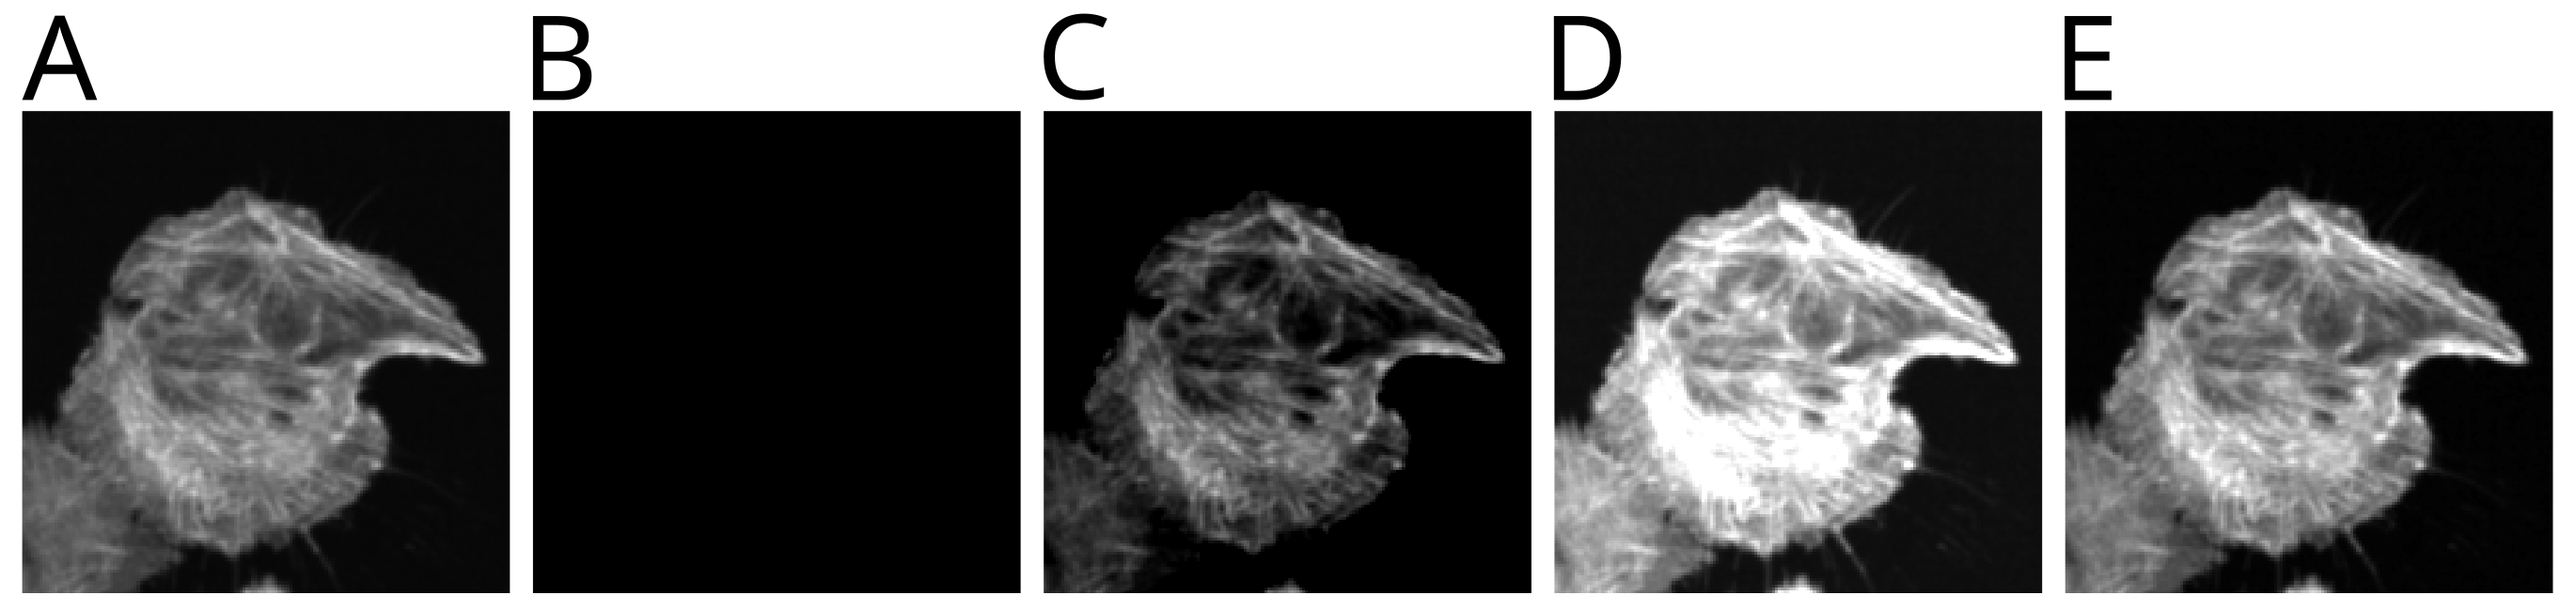
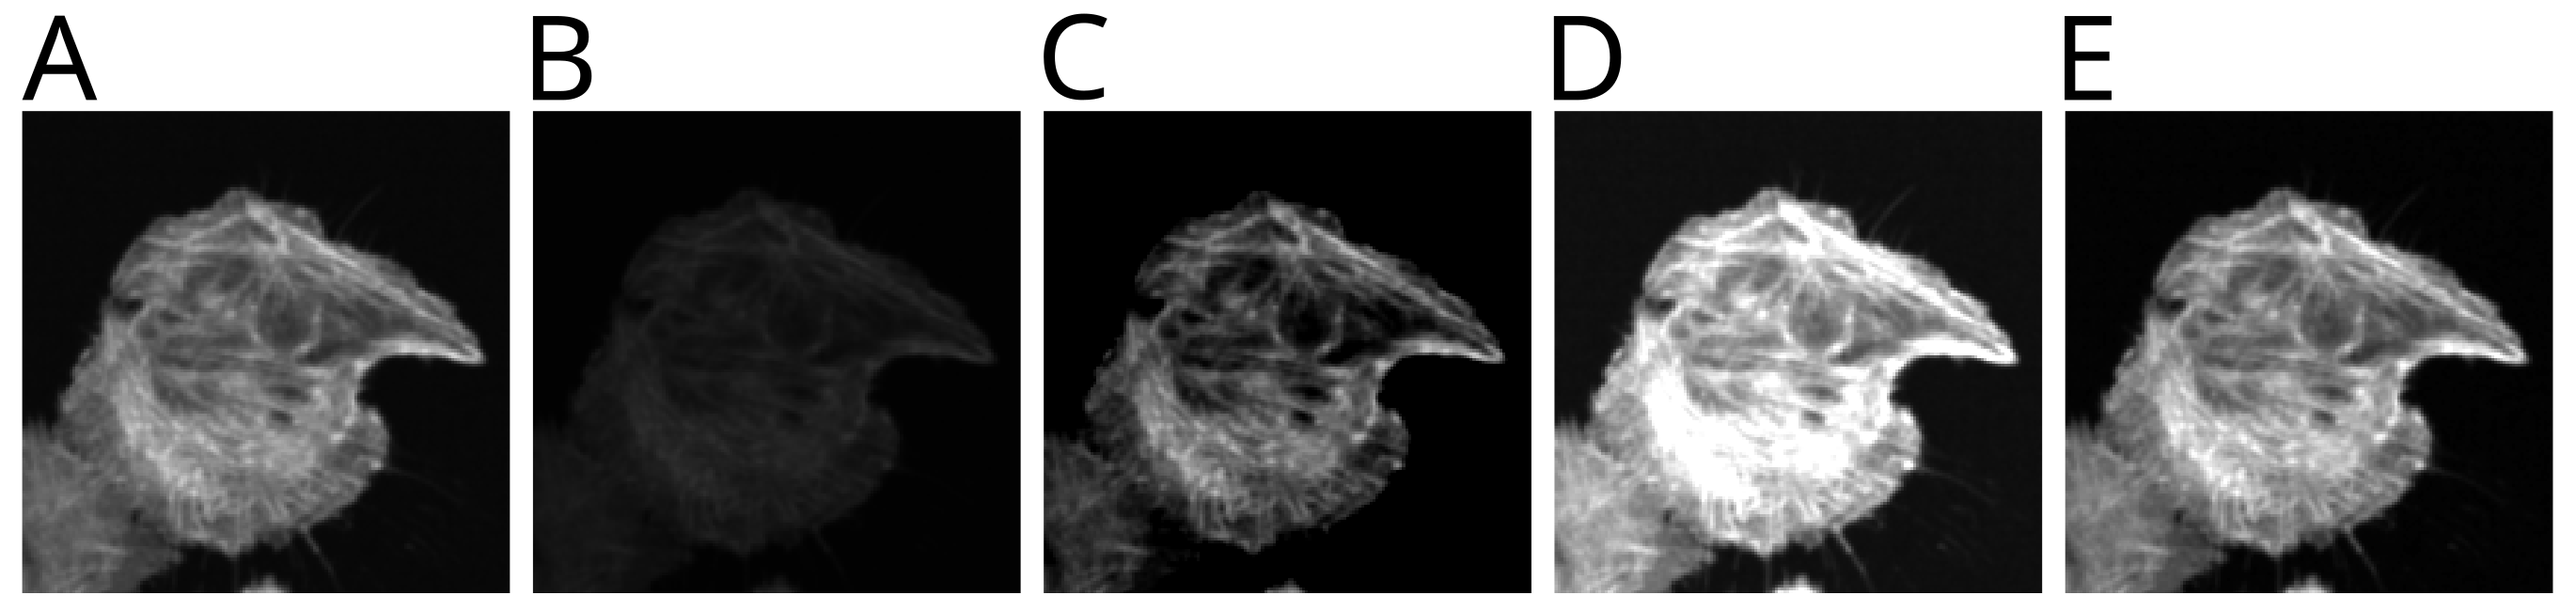
Finalized histogram tutorial with examples

Changed region(s): [[0.2172, 0.3385, 0.4033, 0.8923], [0.2792, 0.9538, 0.3102, 0.9846]]

diff --git a/checklists/fiji_course/image_histogram.md b/checklists/fiji_course/image_histogram.md
@@ -1,7 +1,13 @@
 (image_histogram)=
-# Image histogram
+# Image quality: Image histogram
 
 Topics: intensity sampling, image quality, image histogram
+
+## Learning objective
+
+The learner should be able to use image histograms to identify intensity sampling artifacts in images. 
+
+Time needed: 30 min
 
 ## Motivation
 
@@ -13,7 +19,13 @@ In this mini tutorial, we discuss how to use image histograms to check whether a
 
 - Is oversaturation or clipping present at maximum intensity?
 - Is the minimum signal properly sampled?
-- Are there any intensity sampling artefacts?
+- Are there any intensity sampling artifacts
+
+## Materials
+
+This brief tutorial is using Fiji is just ImageJ (Fiji). All images can be downloaded on the page.
+
+Fiji download: [https://fiji.sc/](https://fiji.sc/) tested with Version ImageJ 2.18.0/1.54p; Java 21.0.7 (64-bit)
 
 ## Introduction
 
@@ -34,7 +46,7 @@ Finally, the light intensity that the microscope captures is represented as diff
 :name: sampling
 :width: 100%
 
-Illustration demonstrating sampling in space and intensity. (A) Illustration of a real object, e.g., a cell, with a smooth, continuous outline (i.e., an analog signal). (B) A modern microscope samples this analog signal (yellow grid lines) and transforms (digitizes) it into a digital representation, thus discretizing the continuous analog information into pixels and gray values. (C) The sampled cell as a digital image; note the clear loss of information due to the sampling.
+Illustration demonstrating digital sampling in space and intensity. (A) Illustration of a real object, e.g., a cell, with a smooth, continuous outline and continuous intensity within (i.e., an analog signal). (B) A modern microscope samples this analog signal (yellow grid lines) and transforms (digitizes) it into a digital representation, thus discretizing the continuous analog information into pixels and gray values. (C) The sampled cell as a digital image; note the clear loss of information due to this digital sampling.
 ```
 
 ```{admonition} Think about it
@@ -44,13 +56,13 @@ The above example is extreme to illustrate a point. However, image acquisition a
 
 ```
 
-The intensity measurement can be performed incorrectly, or the images can be processed incorrectly afterward, negatively impacting analysis and image visualization. For instance:
+The intensity sampling can be performed incorrectly, or the images can be processed incorrectly afterward, negatively impacting analysis and image visualization. For instance:
 
 - The image can be oversaturated, clipping high intensities.
 - The offset can be set incorrectly, cutting off minimum intensities.
 - Image intensity can be resampled (e.g., converted to a lower bit depth), changing the intensity distribution.
 
-We can check these artefacts using the image itself but often they are not easily visible. See below:
+We can check these artifacts using the image itself but often they are not easily visible. See below:
 
 
 ```{figure} ./image_histogram_resources/sampling_errors.png
@@ -59,33 +71,178 @@ We can check these artefacts using the image itself but often they are not easil
 :name: sampling_errors
 :width: 100%
 
-Images demonstrating different intensity sampling errors. (A) The starting image, an F-actin cytoskeleton stain channel of a cell cluster. (B–E) Different intensity sampling problems introduced into the same image. 
+Images demonstrating different intensity sampling problems. (A) The starting image, an F-actin cytoskeleton stain channel of a cell cluster. (B–E) Different intensity sampling problems introduced into the same image. 
 ```
 
 ```{admonition} Exercise
 :class: tip
-Can you identify the artifact in each of B–E? You can find the solution at the end of the tutorial, or work through the exercise yourself using histograms and plot profiles.
+Can you identify the intensity sampling problems in each of B–E? You can find the solution at the end of the tutorial, or work through the exercise yourself using histograms and plot profiles.
 ```
 
-We can use tools such as Histograms and line plots to easily spot these artefacts. 
+We can use tools such as image histograms to easily spot these artifacts. 
 
-## Histogram
+## Image Histogram
+
+Download the first test image here [A_image.png](./image_histogram_resources/A_image.png).
+
+Open Fiji.
+
+```{figure} ./unit-1_resources/Fiji_task_bar.png
+:alt: In
+:align: center
+:name: Fiji task bar image histogram
+:width: 100%
+
+Fiji task bar 
+```
+
+File > Open... (or drag and drop image into Fiji task bar).
+
+You can then create the image histogram of this image here:
 
 Analyze > Histogram
 
-Shows intensity distributions
+The image histogram shows the intensity distributions over all pixels (black plots). With the x-axis plotting the gray-values and the y-axis plotting the number of pixels {numref}`histogram_good`. 
 
-### Intensity artfacts in Histograms
+```{figure} ./image_histogram_resources/histogram_good.png
+:alt: In
+:align: center
+:name: histogram_good
+:width: 75%
 
-## Line plots
+Image Histogram
+```
 
-Click on line ROI 
+There are two peaks, see {numref}`histogram_annotated`. (A) The first sharp peak has many pixels with low gray-values. These values correspond mostly to the background of the image (e.g., dark pixels). (B) The second flatter peak shows pixels with a wide distribution over different larger gray values. These correspond to the signal from the imaged object. (C) Below you will find a calibration bar that shows the minimum and maximum values displayed and their corresponding displayed gray value. 
 
-Draw line ROI on images
+Additionally the histogram window shows basic intensity statistics from this specific image such as the total number of pixels (N), mean (Mean), standard deviation (StdDev), minimum value (Min) and maximum value (Max). For more information please look into the [ImageJ documentation](https://imagej.net/ij/docs/menus/analyze.html#hist)
 
-Analyze > Plot Profile
+```{figure} ./image_histogram_resources/histogram_annotated.png
+:alt: In
+:align: center
+:name: histogram_annotated
+:width: 50%
 
-### Clipping in line plot
+Information in the histogram
+```
+
+The second peak is often not easily visible. Thus we can apply a log scale on the y-axis to better visualize the less abundant gray values. The intensity distribution using the log scale is overlaid as gray plots see {numref}`histogram_good_log`:
+
+```{figure} ./image_histogram_resources/histogram_good_log.png
+:alt: In
+:align: center
+:name: histogram_good_log
+:width: 75%
+
+Histogram with log scale
+```
+
+Now we would like to understand what constitutes a well-acquired image based on its histogram. In general, good original microscopy images (i.e., unprocessed) preserve both the low and high intensity values and show an unprocessed varying signal. We can see this clearly in {numref}`histogram_demonstrated`:
+
+(A) Low values do not start at 0; there is a clear "offset" present in the image, with low intensity varying around a low gray value.
+(B) The signal is continuous but not smooth; variation is present along the intensity distribution due to variation in the signal and noise.
+(C) The high values end before the highest possible value, rather than reaching it.
+
+```{figure} ./image_histogram_resources/histogram_good_demonstrated.png
+:alt: In
+:align: center
+:name: histogram_demonstrated
+:width: 50%
+
+Histogram with log scale
+```
+
+:::{note}
+
+Variation and noise are often seen as something bad that should be suppressed or removed before analysis. However, in the physical world, variation is normal and noise cannot be avoided when performing measurements, as the measurement itself will introduce it. Thus, the absence of variation or noise, i.e., smooth distributions, is generally an indication that some processing has occurred.
+
+:::
+
+## Intensity artifacts in Histograms
+
+Since we now understand how a regular histogram should look we can study different intensity sampling problems. Download the example images (B-E) from the example figure {numref}`sampling_errors` here: 
+
+- [B_image.png](./image_histogram_resources/B_image.png)
+- [C_image.png](./image_histogram_resources/C_image.png)
+- [D_image.png](./image_histogram_resources/D_image.png)
+- [E_image.png](./image_histogram_resources/E_image.png)
+
+```{admonition} Exercise
+:class: tip
+
+Open the images, create a histogram and then compare it to the starting image (A_image.png). Try to identify the differences between the images and the image histograms.
+
+Also think how these artifacts impact your visualization and analysis downstream.
+
+```
+
+### Low contrast
+
+[B_image.png](./image_histogram_resources/B_image.png) shows an image that appears faint or dim. Looking at its histogram, we can see that the intensity values are clustered in a narrow band, leaving much of the available range unused (red arrow). Thus, the image is not exploiting the full dynamic range of the display or detector. We say the image is low contrast. 
+
+This is not necessarily a corrupted or unusable image. Under certain conditions, a narrow intensity range can be entirely correct, for instance, when comparing different treatments that genuinely produce different signal strengths, forcing the range to match would misrepresent the biology. However, a narrow, underused histogram can also indicate suboptimal image acquisition (e.g., insufficient exposure time, laser power, or gain), and it's worth checking the acquisition settings before assuming the signal itself is simply weak.
+
+```{figure} ./image_histogram_resources/histogram_low_contrast.png
+:alt: In
+:align: center
+:name: histogram_low_contrast
+:width: 75%
+
+Low contrast
+```
+
+### Low intensity cut
+
+[C_image.png](./image_histogram_resources/C_image.png) now shows a clear intensity sampling error. Unlike the previous example, there is no offset present in the image, and the low intensities have been clipped. At the lowest possible value (0), we can see a sharp peak in the histogram (red arrow). This spike indicates that many pixels have been pushed down to the same minimum value, meaning the true low-intensity information has been lost and cannot be recovered. 
+
+This can severely impact image measurements. When measuring object size, dim edges or faint structures near the clipping point may be missed entirely, leading to underestimated object size. Signal intensity measurements are also affected, since clipped pixels no longer reflect their true value, biasing any quantification that relies on them.
+
+```{figure} ./image_histogram_resources/histogram_low_cut.png
+:alt: In
+:align: center
+:name: histogram_low_cut
+:width: 75%
+
+Low intensity values cut, no offset
+```
+
+### High intensity clipped
+
+[D_image.png](./image_histogram_resources/D_image.png) shows another clear intensity sampling error. Here, the high signals have been clipped, also referred to as oversaturation. At the highest possible value, we can see a sharp peak in the histogram (red arrow). Many pixels have been pushed up to the same maximum value, so the true high-intensity values are lost and cannot be measured accurately.
+
+This severely impacts the resolution of different structures, since details in the image are now merging together. Accurate signal intensity measurements become entirely impossible.
+
+```{figure} ./image_histogram_resources/histogram_high_cut.png
+:alt: In
+:align: center
+:name: histogram_high_cut
+:width: 75%
+
+High intensity values cut, i.e., clipped. Oversaturation
+```
+
+:::{note}
+
+For an effective image visualization it might be required to oversaturate the image. As otherwise the image content might not be visible in the medium of visualization (projector, computer screen or printed paper). 
+
+This is permissible for display of images as long as ethical image processing is respected see: [Ethical image processing](./image_ethics.md). However, such images are in general not useful for downstream quantitative analysis. Thus, perform quantitative image analysis on the original unprocessed image. 
+
+:::
+
+### Histogram rescaled
+
+[E_image.png](./image_histogram_resources/E_image.png) finally shows an image processing artifact. The intensity has been rescaled such that the continuity of the intensity distribution is interrupted, instead of a smooth histogram, we see gaps or comb-like spikes at regular intervals, where certain intensity values are missing or overrepresented. This pattern indicates that the image has been resampled or converted (e.g., to a lower bit depth) after acquisition, rather than reflecting the original measurement. 
+
+As with the previous examples, this makes accurate quantitative comparison unreliable, since the recorded values no longer correspond directly to the original signal. 
+
+```{figure} ./image_histogram_resources/histogram_rescaled.png
+:alt: In
+:align: center
+:name: histogram_rescaled
+:width: 75%
+
+Histogram rescaled non-continuous intensity distribution.
+```
 
 ## Solution 
 

diff --git a/checklists/fiji_course/interpolation.md b/checklists/fiji_course/interpolation.md
@@ -3,6 +3,14 @@
 
 Topics: Raster graphics, printing resolution, interpolation, vector graphics
 
+## Learning objective
+
+Learners should be able to explain how interpolation affects image quality when resizing raster images, determine an appropriate printing resolution (dpi) for a figure, and choose between raster and vector graphics approaches to preserve scientific image data during figure preparation.
+
+Time needed: 20 min
+
+## Motivation
+
 After image processing (e.g. image reconstruction, cropping, rotation, adjusting brightness contrast) the actual figure that will be published needs to be created. For creating correct and informative image figures the images need to be properly sized as well as annotated. In this section we would like to explain these tasks, common pitfalls and provide different receipts to solve them.
 
 

diff --git a/checklists/fiji_course/intro_background.md b/checklists/fiji_course/intro_background.md
@@ -1,9 +1,10 @@
 (intro_background)=
-# Further information: ethics and image interpolation
+# Further information
 
-This section provides additional material with more in-depth information on ethical image processing and discusses the problem of interpolation of images.
+This section provides additional material with more in-depth information on ethical image processing, assessment of image quality and discusses the problem of interpolation of images.
 
 ## Table of content
 
 1) [Ethical image processing](./image_ethics.md)
-2) [Raster graphics and interpolation](./interpolation.md)
+2) [Image quality: Image histogram](./image_histogram.md)
+3) [Raster graphics and interpolation](./interpolation.md)

diff --git a/checklists/fiji_course/image_ethics.md b/checklists/fiji_course/image_ethics.md
@@ -3,6 +3,12 @@
 
 Topcis: image processing, ethics
 
+## Learning objective
+
+Learners should be able to distinguish acceptable image processing practices (e.g., linear adjustments, cropping) from unethical image manipulation (e.g., selective processing, cloning, inappropriate compression), and apply best practices for data preservation, comparison, and metadata documentation to preserve the scientific integrity of microscopy images.
+
+Time needed: 20 min
+
 ## Motivation
 
 > When you employ the microscope, 
